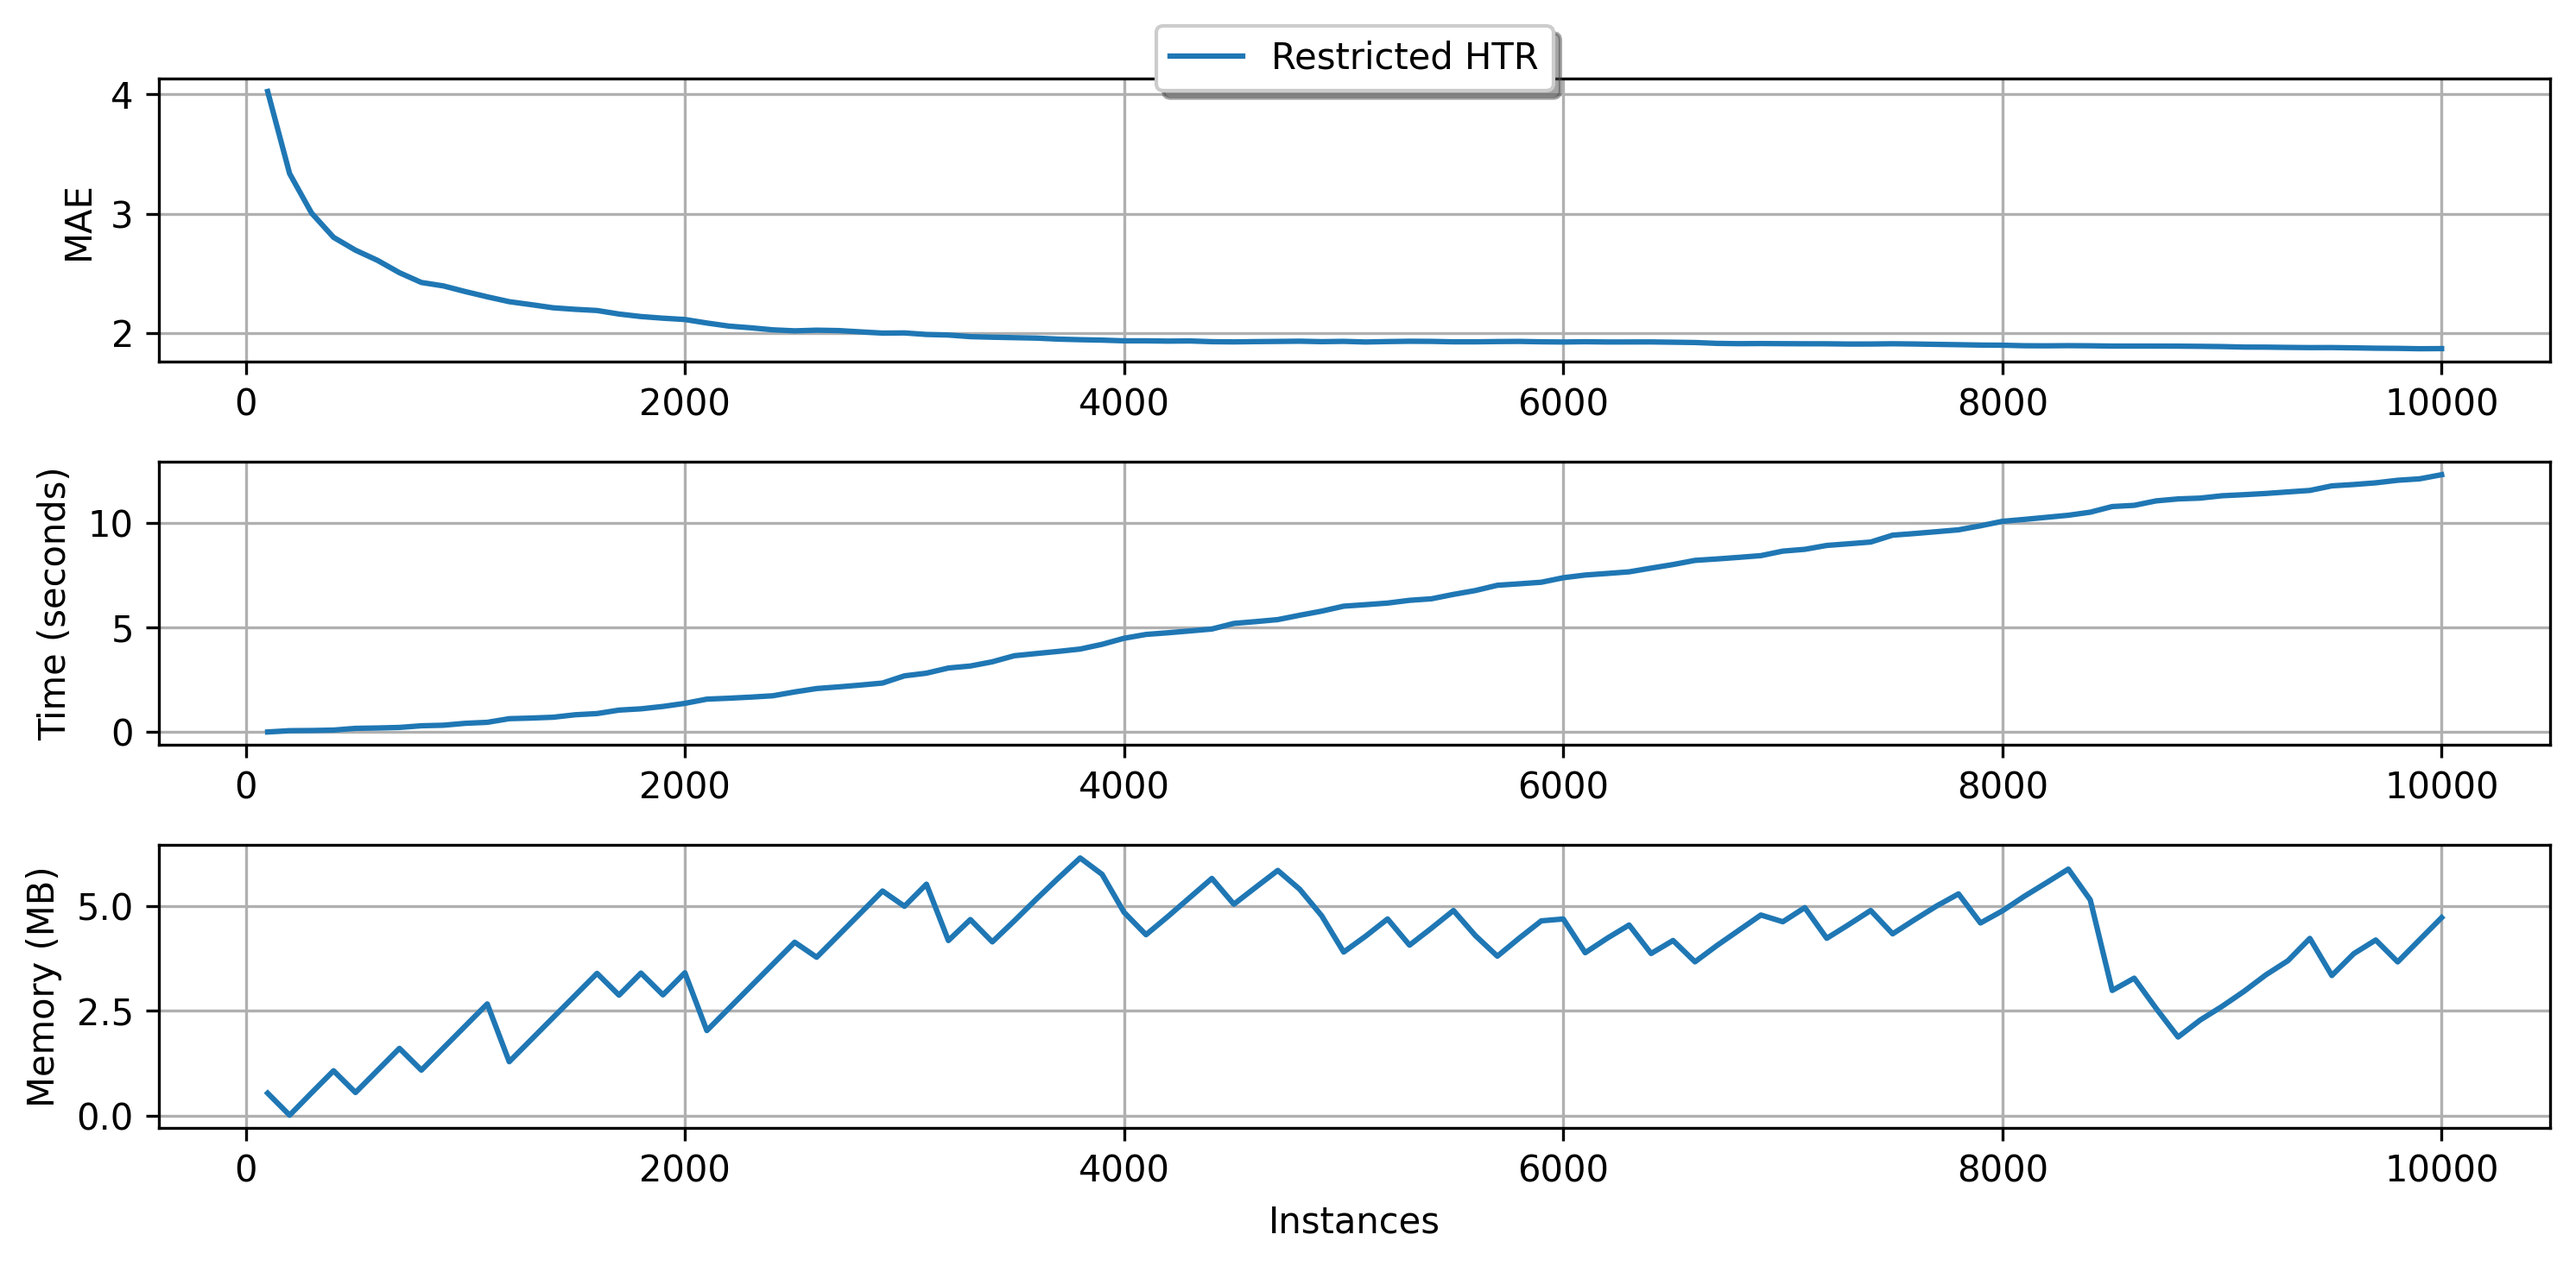
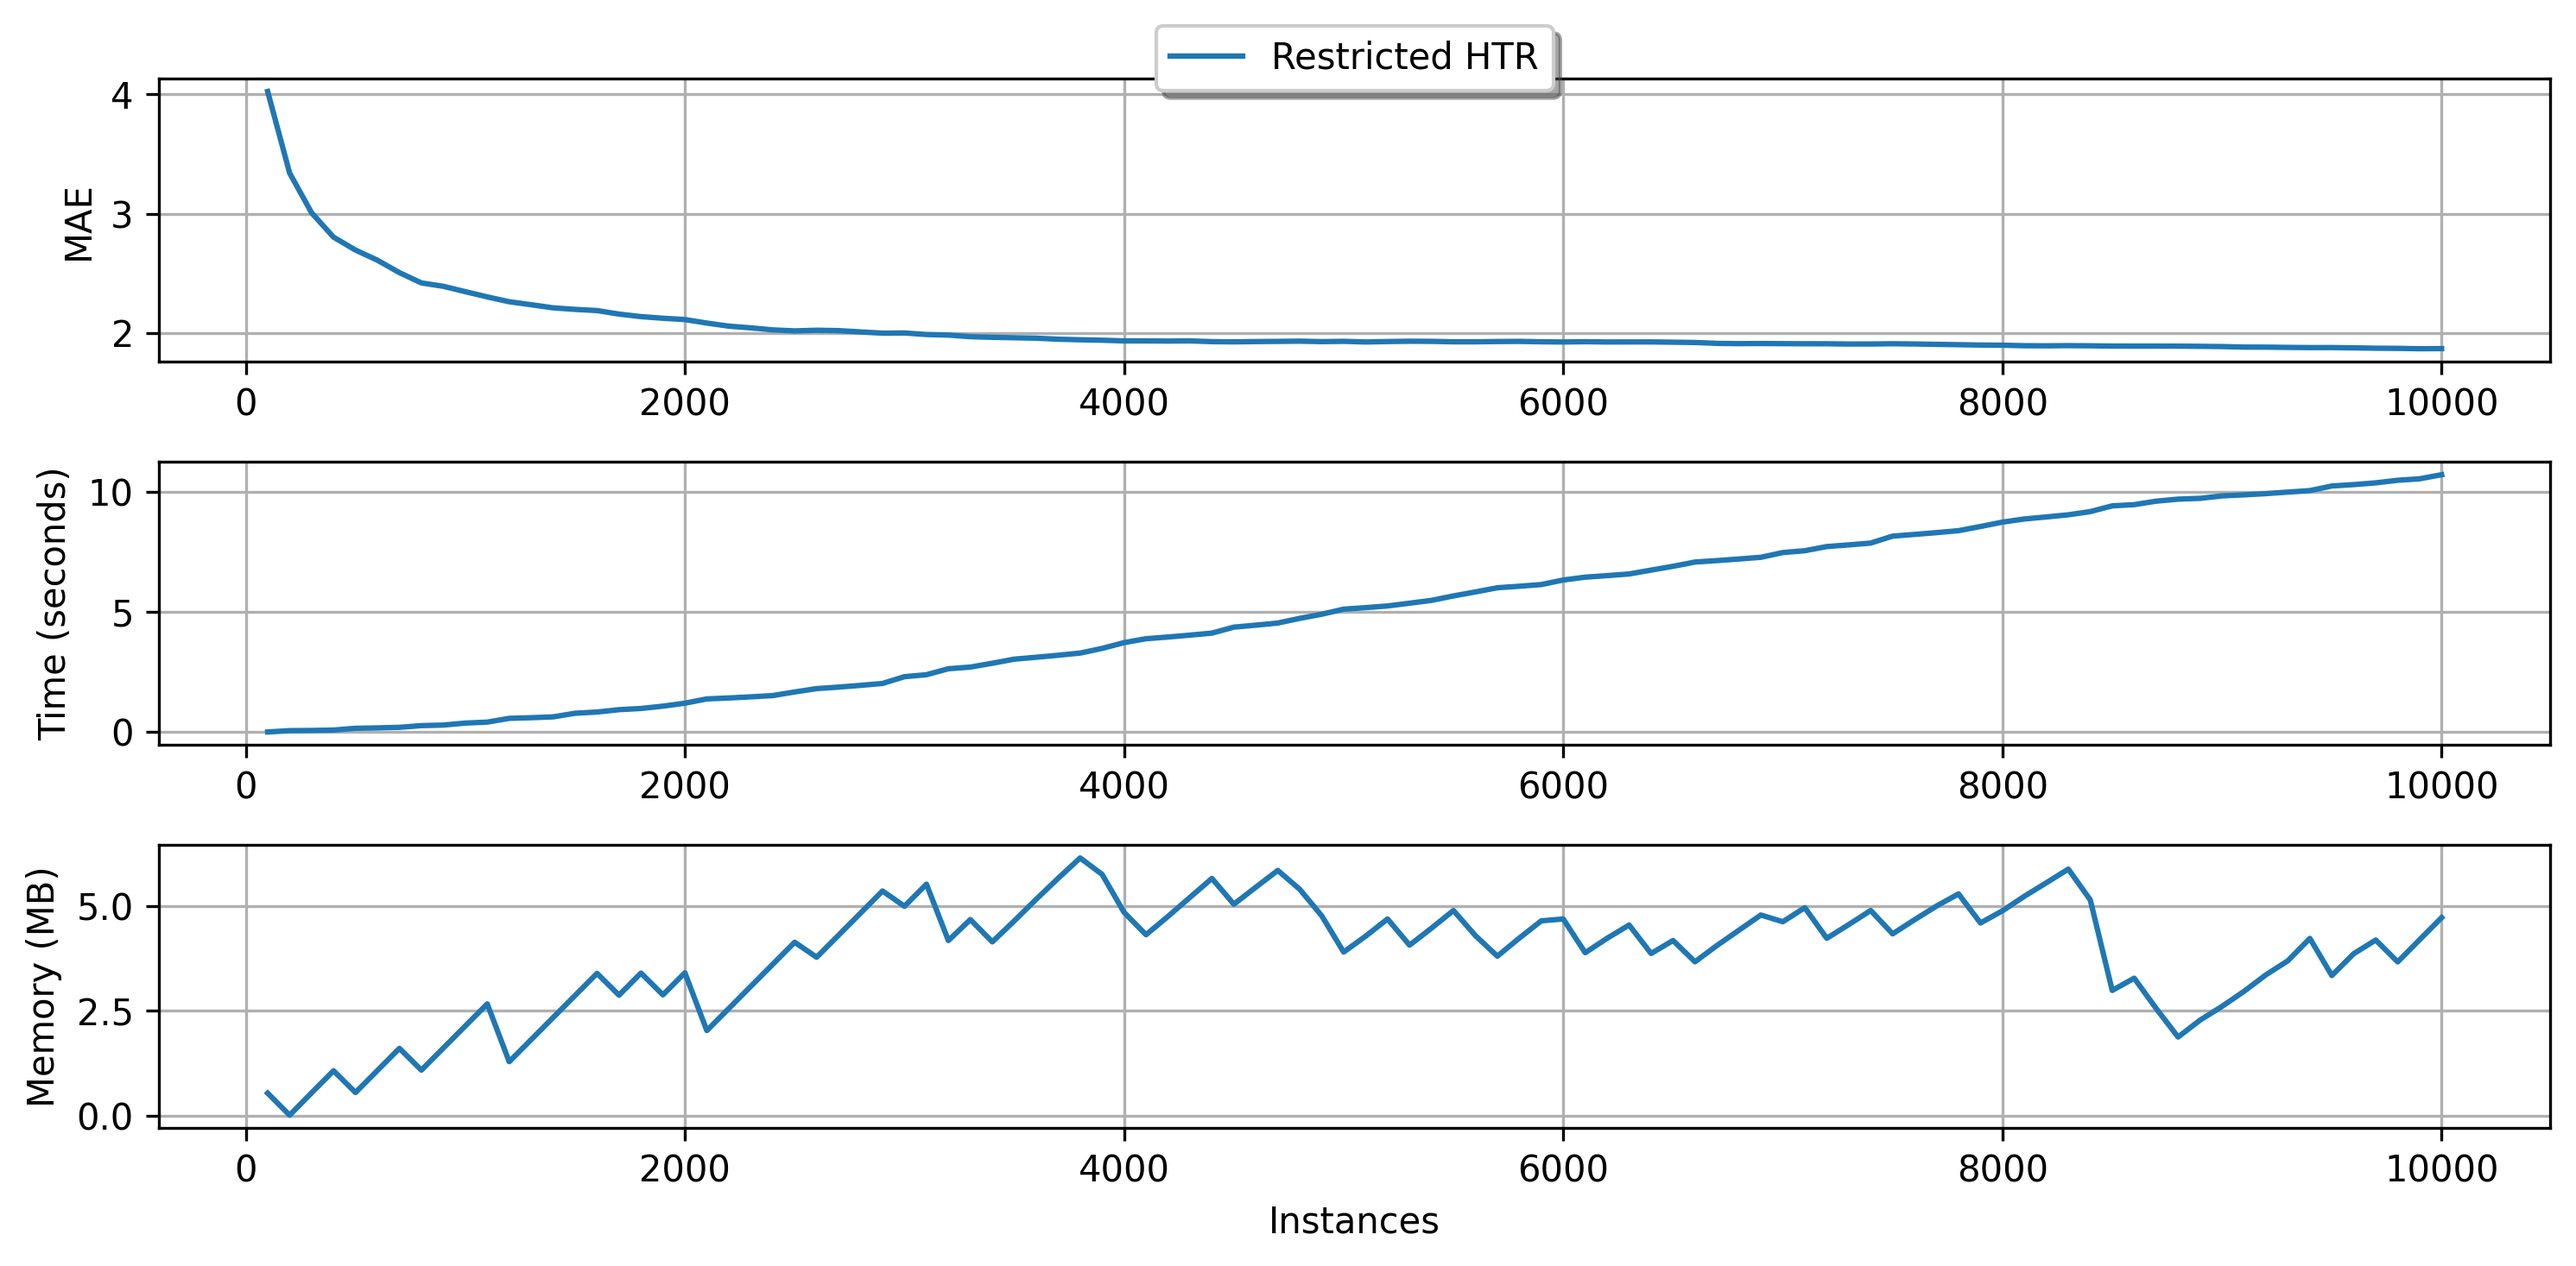
added docstring

diff --git a/river/anomaly/pad.py b/river/anomaly/pad.py
@@ -1,0 +1,200 @@
+from __future__ import annotations
+
+import math
+
+from river import anomaly, base, linear_model, preprocessing, stats, time_series
+
+__all__ = ["PredictiveAnomalyDetection"]
+
+
+class PredictiveAnomalyDetection(anomaly.base.SupervisedAnomalyDetector):
+    """Predictive Anomaly Detection.
+
+    This semi-supervised technique to anomaly detection employs a predictive model to learn the normal behavior
+    of a dataset. It forecasts future data points and compares these predictions with actual values to determine
+    anomalies. An anomaly score is generated based on the deviation of the prediction from the actual value, with higher
+    scores indicating a higher probability of an anomaly.
+
+    The actual anomaly-score is calculated by comparing the squared-error to a dynamic threshold. If the error larger
+    than this threshold, the score will be 1.0. If the error is smaller, then the score will be linearly distributed
+    between 0.0 and 0.999... depending on the distance to the threshold.
+
+    Parameters
+    ----------
+    predictive_model
+        The underlying model that learns the normal behavior of the data and makes predictions on future behavior.
+        This can be any Estimator, depending on the type of problem (e.g. some Forecaster for Time-Series Data).
+    horizon
+        When using a Forecaster this is the horizon of its forecasts.
+    n_std
+        Number of Standard Deviations to use for calculating the threshold. Larger numbers will result in the model
+        being less sensitive.
+    warmup_period
+        Number of iterations for the model to warm up. Since the model will start with no knowledge,
+        the first predictions will be bad resulting in a high error (which is normal).
+        Therefore the first instance will have a very high anomaly-score. While the model is warming up,
+        no score will be calculated and the score_one method will just return 0.
+
+    Attributes
+    ----------
+    dynamic_mean_squared_error : stats.Mean
+         The Running mean of the (squared) errors the model made to update the dynamic threshold.
+    dynamic_squared_error_variance : stats.Var
+        The running variance of the (squared) errors the model made to update the dynamic threshold.
+    iterations : int
+        The number of iterations the model has seen
+
+    Examples
+    --------
+
+    >>> from river import datasets
+    >>> from river import time_series
+    >>> from river import anomaly
+    >>> from river import preprocessing
+    >>> from river import linear_model
+    >>> from river import optim
+
+    >>> period = 12
+    >>> predictive_model = time_series.SNARIMAX(
+    ...     p=period,
+    ...     d=1,
+    ...     q=period,
+    ...     m=period,
+    ...     sd=1,
+    ...     regressor=(
+    ...         preprocessing.StandardScaler()
+    ...         | linear_model.LinearRegression(
+    ...             optimizer=optim.SGD(0.005),
+    ...         )
+    ...     ),
+    ... )
+
+    >>> PAD = anomaly.PredictiveAnomalyDetection(
+    ...     predictive_model,
+    ...     horizon=1,
+    ...     n_std=3.5,
+    ...     warmup_period=15
+    ... )
+
+    >>> for t, (x, y) in enumerate(datasets.AirlinePassengers()):
+    ...     score = PAD.score_one(None, y)
+    ...     PAD.learn_one(None, y)
+    ...     print(score)
+    0.0
+    0.0
+    0.0
+    0.0
+    ...
+    5.477831890312668e-05
+    0.07305562392710468
+    0.030122505497227493
+    0.04803795404401492
+    0.014216675596576562
+    0.04789677144570603
+    0.003410489566495498
+
+
+    References
+    ----------
+    [^1]: [Generic and Scalable Framework for Automated Time-series Anomaly Detection](https://dl.acm.org/doi/abs/10.1145/2783258.2788611)
+    """
+
+    def __init__(
+        self,
+        predictive_model: base.Estimator | None = None,
+        horizon: int = 1,
+        n_std: float = 3.0,
+        warmup_period: int = 0,
+    ):
+        # Setting the predictive model that learns how normal data behaves
+        self.predictive_model = (
+            predictive_model
+            if predictive_model is not None
+            else preprocessing.MinMaxScaler() | linear_model.LinearRegression()
+        )
+
+        self.horizon = horizon
+        self.n_std = n_std
+        self.warmup_period = warmup_period
+
+        # Initialize necessary statistical measures
+        self.dynamic_mean_squared_error = stats.Mean()
+        self.dynamic_squared_error_variance = stats.Var()
+
+        # Initialize necessary values for warm-up procedure
+        self.iterations: int = 0
+
+    # This method is called to make the predictive model learn one example
+    def learn_one(self, x: dict | None, y: base.typing.Target):
+        self.iterations += 1
+
+        # Check if model is a time-series forecasting model or regressor/classification
+        if isinstance(self.predictive_model, time_series.base.Forecaster):
+            # When theres no feature-dict just pass target to forecaster
+            if not x:
+                self.predictive_model.learn_one(y=y)
+            else:
+                self.predictive_model.learn_one(x=x, y=y)
+        else:
+            self.predictive_model.learn_one(x=x, y=y)
+        return self
+
+    # This method is calles to calculate an anomaly score for one example
+    def score_one(self, x: dict, y: base.typing.Target):
+        # Check if model is a time-series forecasting model
+        if isinstance(self.predictive_model, time_series.base.Forecaster):
+            y_pred = self.predictive_model.forecast(self.horizon)[0]
+        else:
+            y_pred = self.predictive_model.predict_one(x)
+
+        # Calculate the errors necessary for thresholding
+        squared_error = (y_pred - y) ** 2
+
+        # Based on the errors and hyperparameters, calculate threshold
+        threshold = self.dynamic_mean_squared_error.get() + (
+            self.n_std * math.sqrt(self.dynamic_squared_error_variance.get())
+        )
+
+        self.dynamic_mean_squared_error.update(squared_error)
+        self.dynamic_squared_error_variance.update(squared_error)
+
+        # When warmup hyperparam is used, only return score if warmed up
+        if self.iterations < self.warmup_period:
+            return 0.0
+
+        # Every error above threshold is scored with 100% or 1.0
+        # Everything below is distributed linearly from 0.0 - 0.999...
+        if squared_error >= threshold:
+            return 1.0
+        else:
+            return squared_error / threshold
+
+    # This version of score_one also returns the score along with the prediction, error and threshold of the model
+    def score_one_detailed(
+        self, x: dict, y: base.typing.Target
+    ) -> (float, base.typing.Target, float, float):
+        if isinstance(self.predictive_model, time_series.base.Forecaster):
+            y_pred = self.predictive_model.forecast(self.horizon)[0]
+        else:
+            y_pred = self.predictive_model.predict_one(x)
+
+        squared_error = (y_pred - y) ** 2
+
+        threshold = self.dynamic_mean_squared_error.get() + (
+            self.n_std * math.sqrt(self.dynamic_squared_error_variance.get())
+        )
+
+        self.dynamic_mean_squared_error.update(squared_error)
+        self.dynamic_squared_error_variance.update(squared_error)
+
+        score: float = 0.0
+
+        if self.iterations < self.warmup_period:
+            score = 0.0
+        else:
+            if squared_error >= threshold:
+                score = 1.0
+            else:
+                score = squared_error / threshold
+
+        return (score, y_pred, squared_error, threshold)

diff --git a/river/anomaly/__init__.py b/river/anomaly/__init__.py
@@ -18,7 +18,7 @@ from .filter import QuantileFilter, ThresholdFilter
 from .gaussian import GaussianScorer
 from .hst import HalfSpaceTrees
 from .lof import LocalOutlierFactor
-from .rad import ReconstructionAnomalyDetecion
+from .pad import PredictiveAnomalyDetection
 from .sad import StandardAbsoluteDeviation
 from .svm import OneClassSVM
 
@@ -32,5 +32,5 @@ __all__ = [
     "StandardAbsoluteDeviation",
     "ThresholdFilter",
     "LocalOutlierFactor",
-    "ReconstructionAnomalyDetecion",
+    "PredictiveAnomalyDetection",
 ]

diff --git a/docs/benchmarks/Binary classification/index.md b/docs/benchmarks/Binary classification/index.md
@@ -37930,21 +37930,21 @@
 ## Environment
 
 <pre>Python implementation: CPython
-Python version       : 3.10.13
+Python version       : 3.10.12
 IPython version      : 8.16.1
 
 river       : 0.19.0
-numpy       : 1.25.2
+numpy       : 1.26.1
 scikit-learn: 1.3.1
 pandas      : 2.1.1
 scipy       : 1.11.3
 
-Compiler    : Clang 14.0.6 
-OS          : Darwin
-Release     : 22.6.0
-Machine     : arm64
-Processor   : arm
-CPU cores   : 8
+Compiler    : GCC 11.4.0
+OS          : Linux
+Release     : 5.15.0-1046-kvm
+Machine     : x86_64
+Processor   : x86_64
+CPU cores   : 2
 Architecture: 64bit
 </pre>
 

diff --git a/docs/benchmarks/Multiclass classification/index.md b/docs/benchmarks/Multiclass classification/index.md
@@ -24888,21 +24888,21 @@
 ## Environment
 
 <pre>Python implementation: CPython
-Python version       : 3.10.13
+Python version       : 3.10.12
 IPython version      : 8.16.1
 
 river       : 0.19.0
-numpy       : 1.25.2
+numpy       : 1.26.1
 scikit-learn: 1.3.1
 pandas      : 2.1.1
 scipy       : 1.11.3
 
-Compiler    : Clang 14.0.6 
-OS          : Darwin
-Release     : 22.6.0
-Machine     : arm64
-Processor   : arm
-CPU cores   : 8
+Compiler    : GCC 11.4.0
+OS          : Linux
+Release     : 5.15.0-1046-kvm
+Machine     : x86_64
+Processor   : x86_64
+CPU cores   : 2
 Architecture: 64bit
 </pre>
 

diff --git a/docs/benchmarks/Regression/index.md b/docs/benchmarks/Regression/index.md
@@ -20644,21 +20644,21 @@
 ## Environment
 
 <pre>Python implementation: CPython
-Python version       : 3.10.13
+Python version       : 3.10.12
 IPython version      : 8.16.1
 
 river       : 0.19.0
-numpy       : 1.25.2
+numpy       : 1.26.1
 scikit-learn: 1.3.1
 pandas      : 2.1.1
 scipy       : 1.11.3
 
-Compiler    : Clang 14.0.6 
-OS          : Darwin
-Release     : 22.6.0
-Machine     : arm64
-Processor   : arm
-CPU cores   : 8
+Compiler    : GCC 11.4.0
+OS          : Linux
+Release     : 5.15.0-1046-kvm
+Machine     : x86_64
+Processor   : x86_64
+CPU cores   : 2
 Architecture: 64bit
 </pre>
 
